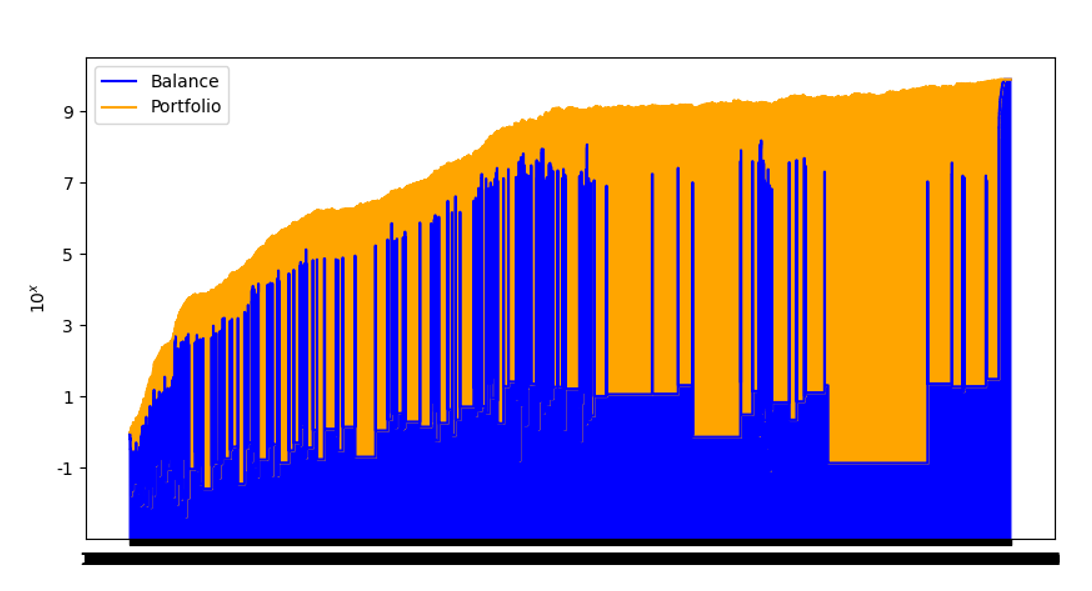
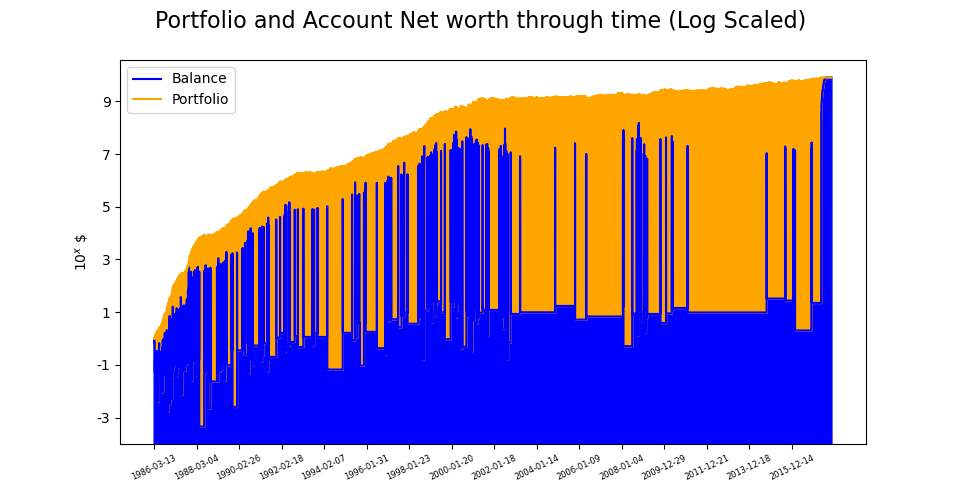
Fix plotting, delete personal paths

diff --git a/code/time_travel.py b/code/time_travel.py
@@ -21,7 +21,7 @@ def net_plot(port_net_worth, acc_net_worth):
 
 def load_stocks(l=[]):
     big_df = pd.DataFrame()
-    data_folder_path = r"C:\Users\Konpoul\Desktop\Master\prog-ds\Projects-2021\Python\Stock_Market_data\Stocks"
+    data_folder_path = r"...\Stock_Market_data\Stocks" # Adjust according to your system.
     for txt in l :
         path = os.path.join(data_folder_path, txt)
         try:
@@ -229,7 +229,7 @@ ax.step(x=plot_dates, y=port_net_worth, where='pre', color='orange', label='Port
 ax.set_yscale('log')
 logfmt = ticker.LogFormatterExponent(base=10.0, labelOnlyBase=True)
 ax.yaxis.set_major_formatter(logfmt)
-ax.set_ylabel("$10^x$")
+ax.set_ylabel("$10^x$ \$")
 ax.fill_between(plot_dates , acc_net_worth , color='blue', step="pre")
 ax.fill_between(plot_dates , acc_net_worth, port_net_worth , color='orange', step='pre') #, acc_net_worth
 # plot 1 every 500 dates

diff --git a/code/time_travel_large.py b/code/time_travel_large.py
@@ -21,7 +21,7 @@ def net_plot(port_net_worth, acc_net_worth):
 
 def load_stocks(l=[]):
     big_df = pd.DataFrame()
-    data_folder_path = r"C:\Users\Konpoul\Desktop\Master\prog-ds\Projects-2021\Python\Stock_Market_data\Stocks"
+    data_folder_path = r"...\Stock_Market_data\Stocks" # Adjust according to your system.
     for txt in l :
         path = os.path.join(data_folder_path, txt)
         try:
@@ -227,7 +227,7 @@ ax.step(x=plot_dates, y=port_net_worth, where='post', color='orange', label='Por
 ax.set_yscale('log')
 logfmt = ticker.LogFormatterExponent(base=10.0, labelOnlyBase=True)
 ax.yaxis.set_major_formatter(logfmt)
-ax.set_ylabel("$10^x$")
+ax.set_ylabel("$10^x$ \$")
 ax.fill_between(plot_dates , acc_net_worth , color='blue', step="post")
 ax.fill_between(plot_dates , port_net_worth, acc_net_worth, color='orange', step='post') #, acc_net_worth
 
